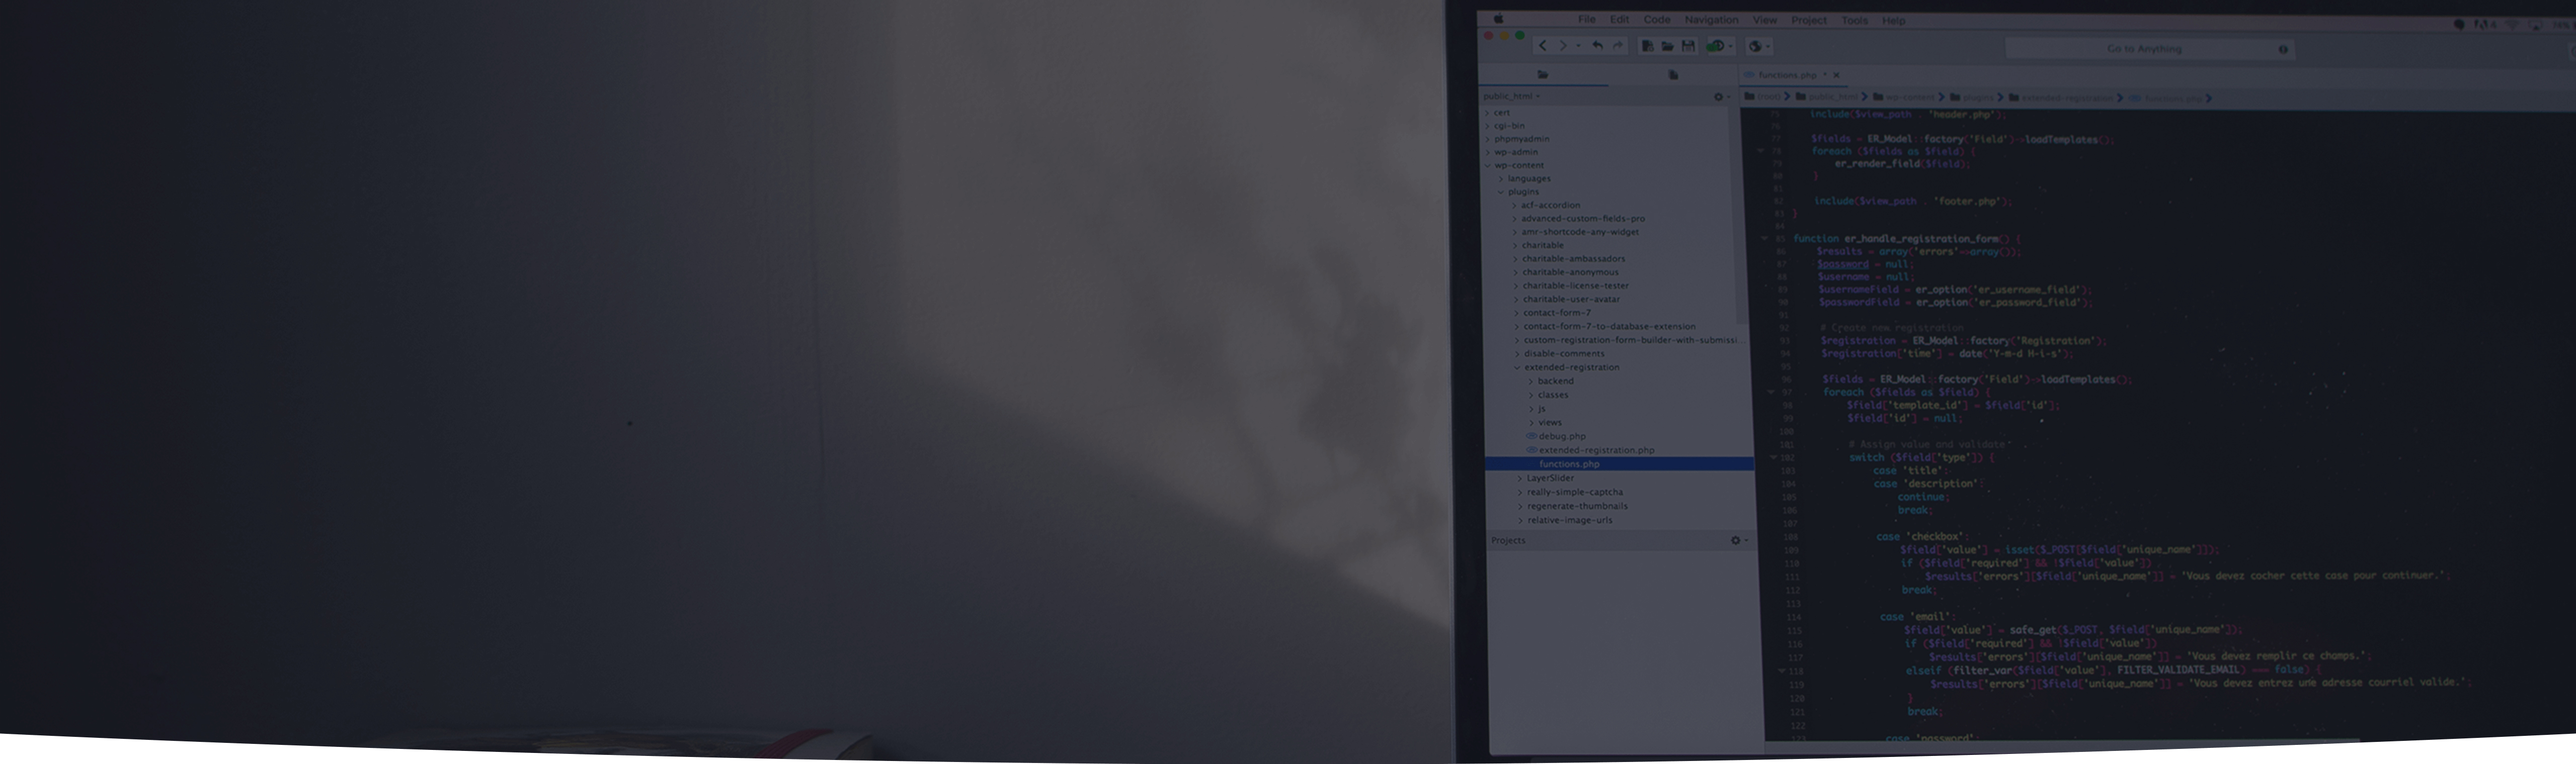
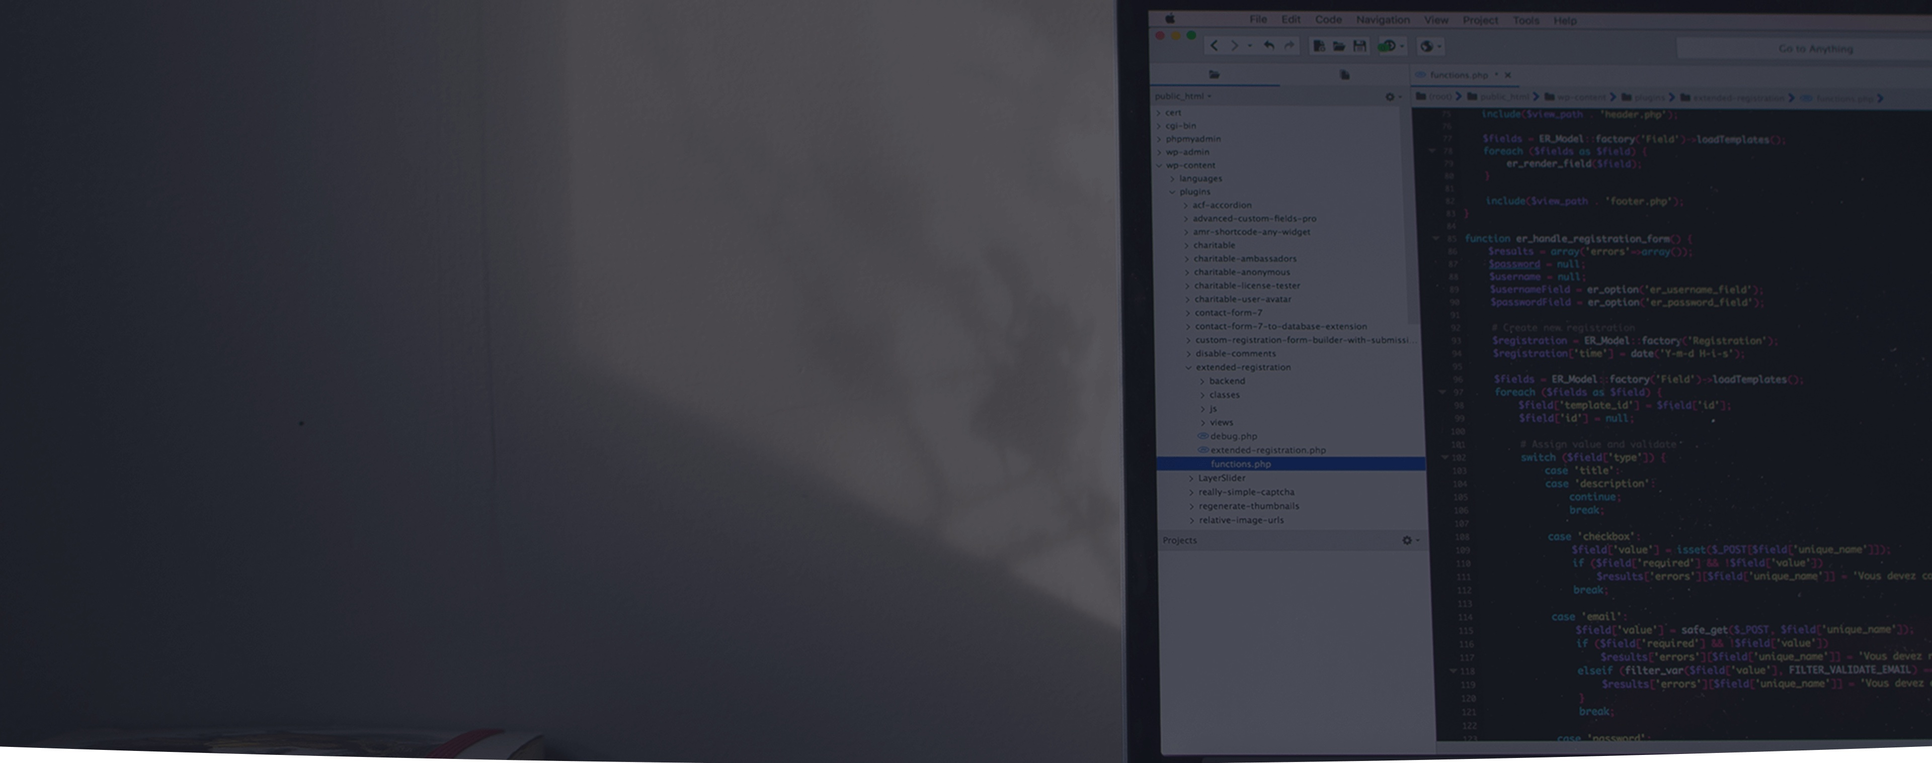
optimize usage section background image on main page

diff --git a/layouts/static/src/styles/pages/_home.scss b/layouts/static/src/styles/pages/_home.scss
@@ -423,8 +423,20 @@
   .usage {
     @include block-bg($vs-color-darkBlue5, 760px);
     padding: 140px 0;
-    background: url("../assets/images/bg/home/home-usage-bg@2x.jpg") center top no-repeat;
-    background-size: 2560px 760px;
+    background: url("../assets/images/bg/home/home-usage-bg.jpg") center top no-repeat;
+    background-size: 1920px 760px;
+
+    @media
+    (-webkit-min-device-pixel-ratio: 2),
+    (min-resolution: 192dpi) {
+      background-image: url("../assets/images/bg/home/home-usage-bg@2x.jpg");
+    }
+
+    @media
+    (max-width: 480px) {
+      background-image: url("../assets/images/bg/home/home-usage-bg-mobile@2x.jpg");
+      background-size: cover;
+    }
 
     @media (min-width: $vs-breakpoint-lg) {
       padding: 140px 0 0;
